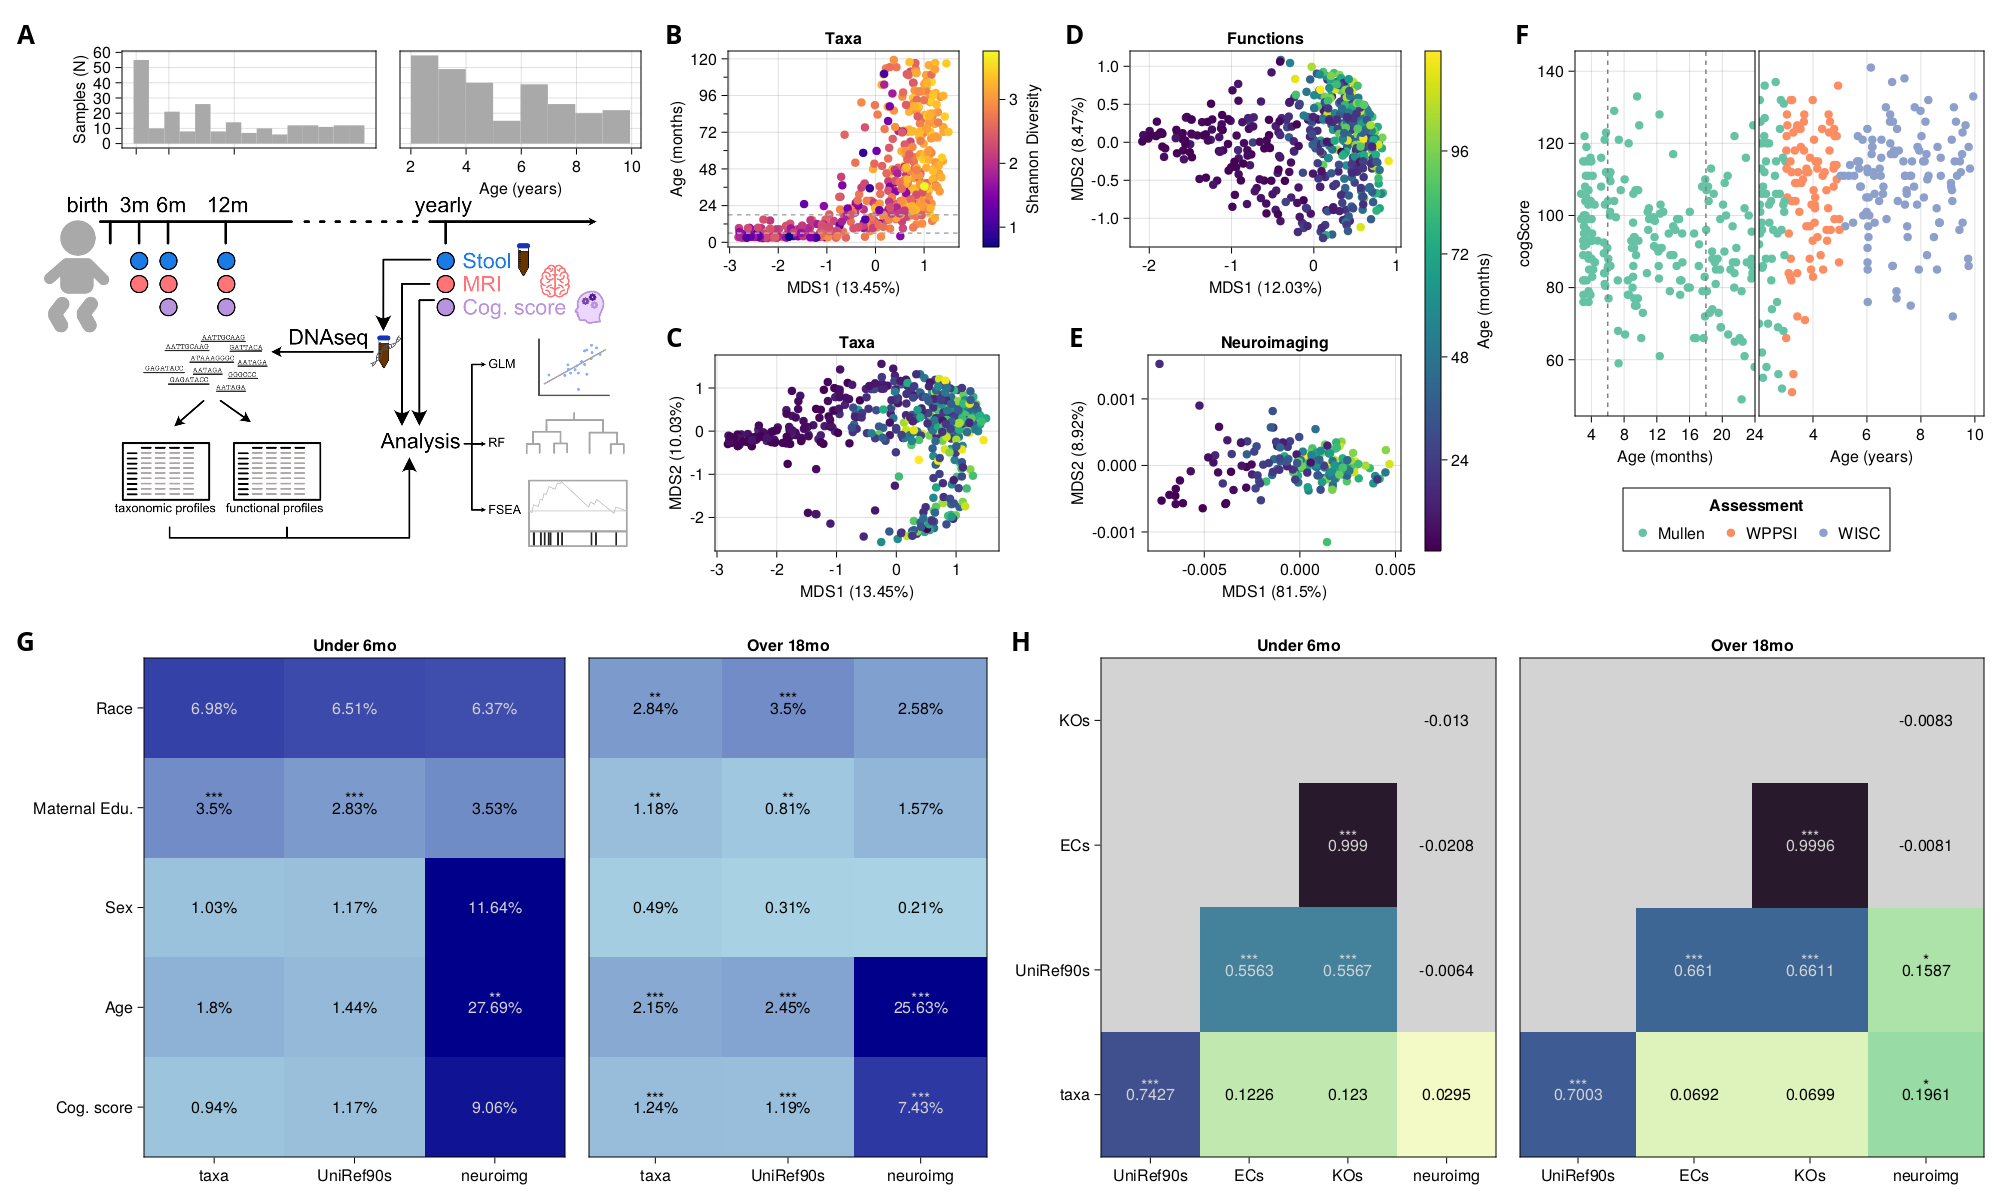
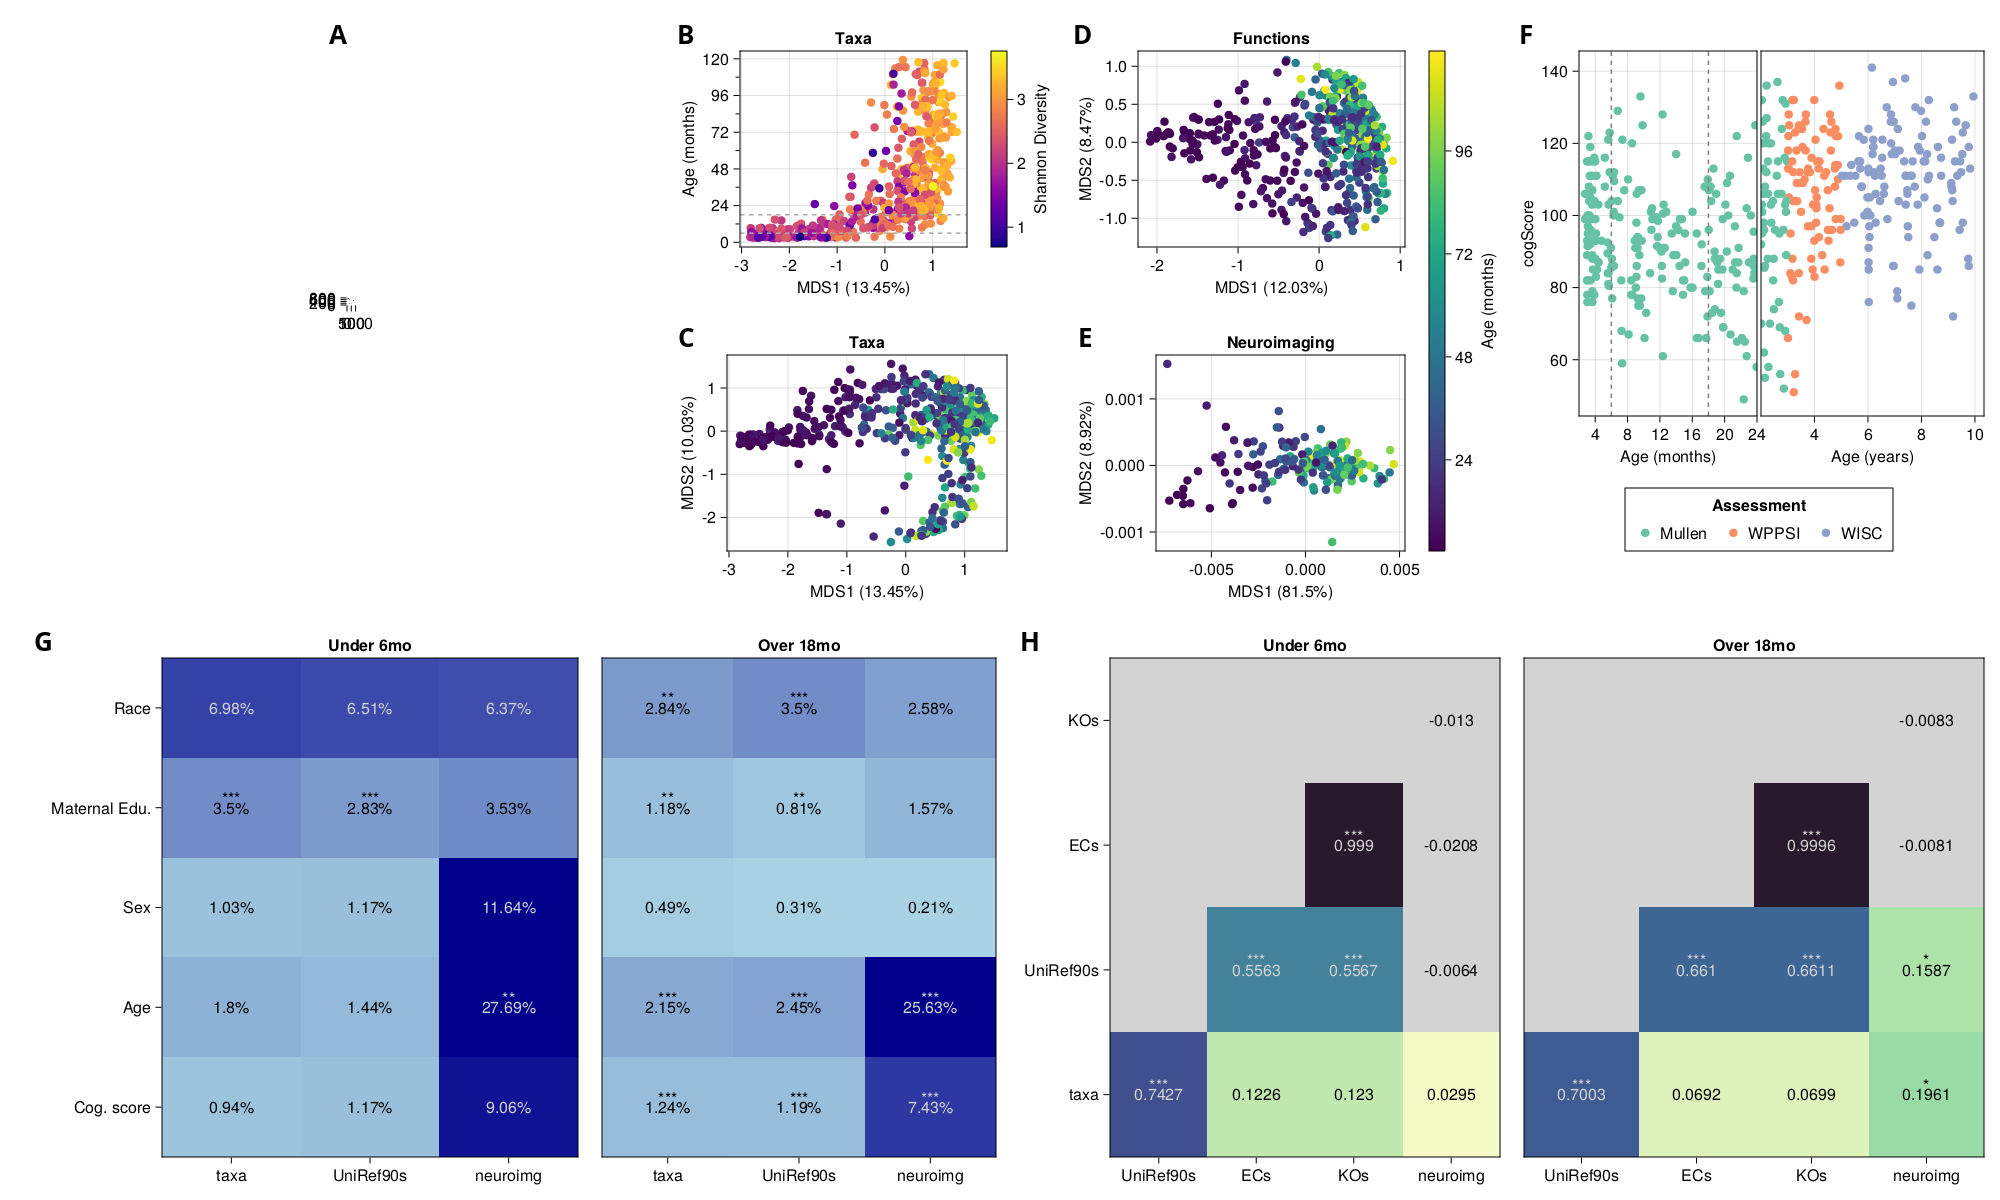
reorganize figure 1

diff --git a/manuscript/Figure1.md b/manuscript/Figure1.md
@@ -51,87 +51,32 @@ See the [Makie documentation](https://makie.juliaplots.org/stable/tutorials/layo
 
 ```julia
 figure = Figure(; resolution = (2000, 1200))
-A = GridLayout(figure[1,1])
-BCDE = GridLayout(figure[1,2])
-F = GridLayout(figure[1,3])
-GH = GridLayout(figure[2,1:3])
+AB = GridLayout(figure[1,1])
+CDEF = GridLayout(figure[1,2])
+GH = GridLayout(figure[2,1:2])
 ```
 
 
 ## Summaries
 
-### 1A - Cohort diagram and ages
+### 1A-B - Cohort diagram and ages, cogscores
 
 For now, the graphic here is a place-holder, but we'll have something like this for 1A.
 
 ```julia
-A_img = Axis(A[2,1:3]; aspect = DataAspect(), alignmode=Inside())
-A_histleft = Axis(A[1,2]; ylabel="Samples (N)")
-A_histright = Axis(A[1,3]; xlabel = "Age (years)", xticks=2:2:16, yticklabelsvisible=false, yticksvisible=false)
+
+A_img = Axis(AB[1,1]; aspect = DataAspect(), alignmode=Inside())
 hidedecorations!(A_img)
 hidespines!(A_img)
 
 image!(A_img, rotr90(load("manuscript/assets/Figure1A.jpg")))
 
-hist!(A_histleft, filter(<=(24), mdata.ageMonths); color = :darkgray)
-hist!(A_histright, filter(>(24), mdata.ageMonths) ./ 12; color = :darkgray, bins=8)
+B = GridLayout(AB[2,1])
 
-rowgap!(A, -30)
-rowsize!(A, 1, Relative(1/5))
-colsize!(A, 2, Relative(1/3))
-linkyaxes!(A_histleft, A_histright)
-
-A_histleft.xticks = ([3,6,12], ["", "", ""])
-```
-
-
-### Ordinations
-
-```julia
-spepco = fit(MDS, spedm; distances=true)
-
-B = GridLayout(BCDE[1,1])
-Ba = Axis(B[1,1]; ylabel= "Age (months)", xlabel = mdsaxis(spepco, 1), 
-                  title = "Taxa", yminorticksvisible = true, yticks=0:24:120, yminorticks = IntervalsBetween(2),
-                  alignmode = Mixed(; left=-15))
-sc1 = scatter!(Ba, Resonance.loadings(spepco, 1), get(species, :ageMonths);
-        color = divr, colormap=:plasma)
-hlines!(Ba, [6, 18]; linestyle=:dash, color=:darkgray)
-Colorbar(B[1, 2], sc1; label="Shannon Diversity", flipaxis=true)
-
-C = Axis(BCDE[2,1]; title = "Taxa", alignmode = Mixed(; left=-15))
-sc2 = plot_pcoa!(C, spepco; color=get(species, :ageMonths))
-
-
-# C = GridLayout(BCDE[2,1])
-# Ca = Axis(C[1,1]; title = "Bacteroidetes")
-# Cb = Axis(C[1,2]; title = "Firmicutes")
-# Cc = Axis(E[1,3]; title = "Actinobacteria")
-
-# plot_pcoa!(Ca, spepco; color=vec(abundances(filter(t-> taxrank(t) == :phylum, taxa)[r"Bacteroidetes", :])), colormap=:Purples)
-# plot_pcoa!(Cb, spepco; color=vec(abundances(filter(t-> taxrank(t) == :phylum, taxa)[r"Firmicutes", :])), colormap=:Purples)
-# hideydecorations!(Cb)
-# pco = plot_pcoa!(Ec, spepco; color=vec(abundances(filter(t-> taxrank(t) == :phylum, taxa)[r"Actinobacteria", :])), colormap=:Purples)
-D = Axis(BCDE[1,2]; title = "Functions", alignmode = Mixed(; left=-15))
-
-unipco = fit(MDS, unidm; distances=true)
-plot_pcoa!(D, unipco; color=get(unirefs, :ageMonths))
-
-E = Axis(BCDE[2,2]; title = "Neuroimaging", alignmode = Mixed(; left=-15))
-
-brnpco = fit(MDS, brndm; distances=true)
-plot_pcoa!(E, brnpco; color=get(brain, :ageMonths))
-
-Colorbar(BCDE[1:2, 3], sc2; label="Age (months)", flipaxis=true, ticks=0:24:120)
-```
-
-### 1F - cogscores
-
-```julia
-fax1 = Axis(F[1,1]; xlabel = "Age (months)", ylabel = "cogScore", xticks=(4:4:24), limits=((2,24), nothing), alignmode = Mixed(; left=-15))
-fax2 = Axis(F[1,2]; xlabel = "Age (years)", xticks = (4:2:12), limits=((2,nothing), nothing))
-hideydecorations!(fax2)
-linkyaxes!(fax1, fax2)
+bax1 = Axis(B[1,1]; xlabel = "Age (months)", ylabel = "cogScore", xticks=(4:4:24), limits=((2,24), nothing), alignmode = Mixed(; left=-15))
+bax2 = Axis(B[1,2]; xlabel = "Age (years)", xticks = (4:2:12), limits=((2,nothing), nothing))
+hideydecorations!(bax2)
+linkyaxes!(bax1, bax2)
 
 let
     u2y = findall(p-> !ismissing(p[2]) && p[1] <= 24, collect(zip(mdata.ageMonths, mdata.cogScore)))
@@ -144,26 +89,55 @@ let
         return cs[3] # WISC
     end
     ages = mdata.ageMonths[u2y]
-    scatter!(fax1, ages, mdata.cogScore[u2y]; color=colorage.(ages))
+    scatter!(bax1, ages, mdata.cogScore[u2y]; color=colorage.(ages))
 
     ages = mdata.ageMonths[o2y]
-    scatter!(fax2, ages ./ 12, mdata.cogScore[o2y]; color=colorage.(ages))
+    scatter!(bax2, ages ./ 12, mdata.cogScore[o2y]; color=colorage.(ages))
     
-    vlines!(fax1, [6, 18]; linestyle=:dash, color=:gray)
+    vlines!(bax1, [6, 18]; linestyle=:dash, color=:gray)
     # TODO: add colors for training/test sets in later models
 
-    Legend(F[2, 1:2], [MarkerElement(; marker=:circle, color=c) for c in cs[1:3]],
+    Legend(B[1, 3], [MarkerElement(; marker=:circle, color=c) for c in cs[1:3]],
                       ["Mullen", "WPPSI", "WISC"], "Assessment";
-                      orientation = :horizontal, tellheight=true, tellwidth=false
     )
 end
 
-colsize!(figure.layout, 1, Relative(1/3))
-colsize!(figure.layout, 3, Relative(1/4))
-colsize!(A, 1, Fixed(12))
-colsize!(A, 2, Relative(1/2))
-colgap!(F, Fixed(4))
-figure
+
+colgap!(B, Fixed(4))
+rowsize!(AB, 1, Relative(2/3))
+
+
+```
+
+
+### Ordinations
+
+```julia
+spepco = fit(MDS, spedm; distances=true)
+
+C = GridLayout(CDEF[1,1])
+Ca = Axis(C[1,1]; ylabel= "Age (months)", xlabel = mdsaxis(spepco, 1), 
+                  title = "Taxa", yminorticksvisible = true, yticks=0:24:120, yminorticks = IntervalsBetween(2),
+                  alignmode = Mixed(; left=-15))
+sc1 = scatter!(Ca, Resonance.loadings(spepco, 1), get(species, :ageMonths);
+        color = divr, colormap=:plasma)
+hlines!(Ca, [6, 18]; linestyle=:dash, color=:darkgray)
+Colorbar(C[1, 2], sc1; label="Shannon Diversity", flipaxis=true)
+
+D = Axis(CDEF[2,1]; title = "Taxa", alignmode = Mixed(; left=-15))
+sc2 = plot_pcoa!(D, spepco; color=get(species, :ageMonths))
+
+E = Axis(CDEF[1,2]; title = "Functions", alignmode = Mixed(; left=-15))
+
+unipco = fit(MDS, unidm; distances=true)
+plot_pcoa!(E, unipco; color=get(unirefs, :ageMonths))
+
+F = Axis(CDEF[2,2]; title = "Neuroimaging", alignmode = Mixed(; left=-15))
+
+brnpco = fit(MDS, brndm; distances=true)
+plot_pcoa!(F, brnpco; color=get(brain, :ageMonths))
+
+Colorbar(CDEF[1:2, 3], sc2; label="Age (months)", flipaxis=true, ticks=0:24:120)
 ```
 
 ### 1G-H: Omnibus tests
@@ -214,37 +188,37 @@ plot_mantel!(Hb, CSV.read(scratchfiles("mantel_18to120.csv"), DataFrame))
 
 ```julia
 
-Label(A[1, 1, TopLeft()], "A",
+Label(AB[1, 1, TopLeft()], "A",
         fontsize = 26,
         font = "Open Sans Bold",
         halign = :right
 )
-Label(BCDE[1, 1, TopLeft()], "B",
+Label(AB[2, 1, TopLeft()], "B",
         fontsize = 26,
         font = "Open Sans Bold",
         halign = :right
 )
-Label(BCDE[2, 1, TopLeft()], "C",
+Label(CDEF[1, 1, TopLeft()], "C",
         fontsize = 26,
         font = "Open Sans Bold",
         halign = :right
 )
-Label(BCDE[1, 2, TopLeft()], "D",
+Label(CDEF[2, 1, TopLeft()], "D",
         fontsize = 26,
         font = "Open Sans Bold",
         halign = :right
 )
-Label(BCDE[2, 2, TopLeft()], "E",
+Label(CDEF[1, 2, TopLeft()], "E",
+        fontsize = 26,
+        font = "Open Sans Bold",
+        halign = :right
+)
+Label(CDEF[2, 2, TopLeft()], "F",
         fontsize = 26,
         font = "Open Sans Bold",
         halign = :right
 )
 
-Label(F[1, 1, TopLeft()], "F",
-        fontsize = 26,
-        font = "Open Sans Bold",
-        halign = :right
-)
 Label(G[1, 1, TopLeft()], "G",
         fontsize = 26,
         font = "Open Sans Bold",
@@ -256,47 +230,82 @@ Label(H[1, 1, TopLeft()], "H",
         halign = :right
 )
 
+rowsize!(AB, 1, Relative(4/7))
+rowsize!(figure.layout, 1, Relative(2/3))
+figure
+```
+
+```julia
 save(figurefiles("Figure1.svg"), figure)
 save("manuscript/assets/Figure1.png", figure)
-figure
 ```
 
 ![](figures/Figure1.png)
 
 ## Supplement
 
+### Sample collection histograms
+
+```julia
+
+let fig = Figure()
+        histleft = Axis(fig[1,1];  xlabel = "Age (months)", ylabel="Samples (N)", xticks=(3:3:24))
+        histright = Axis(fig[1,2]; xlabel = "Age (years)", xticks=2:2:10, yticklabelsvisible=false, yticksvisible=false)
+        hist!(histleft, filter(<=(24), mdata.ageMonths); color = :darkgray)
+        hist!(histright, filter(>(24), mdata.ageMonths) ./ 12; color = :darkgray, bins=8)
+
+        linkyaxes!(histleft, histright)
+        
+        tightlimits!(histleft, Bottom())
+        tightlimits!(histright, Bottom())
+        save(figurefiles("Supp_Figure1.svg"), fig)
+        save("manuscript/assets/Supp_Figure1.png", fig)
+        fig
+end
+```
+
 ### More Taxa PCoA
 
 ```julia
-fig = Figure()
-ax = Axis(fig[1,1], title = "Bacteroidetes")
-ax2 = Axis(fig[1,2], title = "Prevotella")
-ax3 = Axis(fig[2,1], title = "Bacteroides")
-ax4 = Axis(fig[2,2], title = "Alistipes")
+fulltax = Resonance.load_raw_metaphlan()[:, samplenames(taxa)]
 
-fulltax = Resonance.get_raw_metaphlan()[:, samplenames(taxa)]
+let
+    fig = Figure()
+    ax = Axis(fig[1,1], title = "Bacteroidetes")
+    ax2 = Axis(fig[1,2], title = "Prevotella")
+    ax3 = Axis(fig[2,1], title = "Firmicutes")
+    ax4 = Axis(fig[2,2], title = "Bifidobacterium")
 
-plot_pcoa!(ax, spepco; color=vec(abundances(filter(t-> taxrank(t) == :phylum, fulltax)[r"^Bacteroidetes$", :])),
-        colormap=:Purples,
-        strokecolor=:black,
-        strokewidth=1
-)
-plot_pcoa!(ax2, spepco; color=vec(abundances(filter(t-> taxrank(t) == :genus, fulltax)[r"^Prevotella$", :])),
-        colormap=:Purples,
-        strokecolor=:black,
-        strokewidth=1
-)
-plot_pcoa!(ax3, spepco; color=vec(abundances(filter(t-> taxrank(t) == :genus, fulltax)[r"^Bacteroides$", :])),
-        colormap=:Purples,
-        strokecolor=:black,
-        strokewidth=1
-)
-plot_pcoa!(ax4, spepco; color=vec(abundances(filter(t-> taxrank(t) == :genus, fulltax)[r"^Alistipes$", :])),
-        colormap=:Purples,
-        strokecolor=:black,
-        strokewidth=1
-)
-fig
+
+    plot_pcoa!(ax, spepco; color=vec(abundances(filter(t-> taxrank(t) == :phylum, fulltax)[r"Bacteroidetes$", :])),
+            colormap=:Purples,
+            strokecolor=:black,
+            strokewidth=1,
+            colorrange=(0,100)
+    )
+    plot_pcoa!(ax2, spepco; color=vec(abundances(filter(t-> taxrank(t) == :genus, fulltax)[r"Prevotella$", :])),
+            colormap=:Purples,
+            strokecolor=:black,
+            strokewidth=1,
+            colorrange=(0,100)
+    )
+    plot_pcoa!(ax3, spepco; color=vec(abundances(filter(t-> taxrank(t) == :phylum, fulltax)[r"Firmicutes$", :])),
+            colormap=:Purples,
+            strokecolor=:black,
+            strokewidth=1,
+            colorrange=(0,100)
+    )
+    sc = plot_pcoa!(ax4, spepco; color=vec(abundances(filter(t-> taxrank(t) == :genus, fulltax)[r"Bifidobacterium$", :])),
+            colormap=:Purples,
+            strokecolor=:black,
+            strokewidth=1,
+            colorrange=(0,100)
+    )
+    Colorbar(fig[1:2, 3], sc; label="Relative abundance (%)")
+    save(figurefiles("Supp_Figure2.svg"), fig)
+    save("manuscript/assets/Supp_Figure2.png", fig)
+    fig
+end
 ```
 
 
@@ -314,5 +323,11 @@ oidx = findall(.!ismissing.(df.education) .& .!ismissing.(df.race))
 df = df[oidx, :]
 
 permanova(df, spedm[uidx[oidx], uidx[oidx]], @formula(1 ~ education + race), 1000)
+
+maximum([
+        vec(abundances(filter(t-> taxrank(t) == :phylum, fulltax)[r"Bacteroidetes$", :]));
+        vec(abundances(filter(t-> taxrank(t) == :genus, fulltax)[r"Prevotella$", :]));
+        vec(abundances(filter(t-> taxrank(t) == :phylum, fulltax)[r"Firmicutes$", :]));
+        vec(abundances(filter(t-> taxrank(t) == :genus, fulltax)[r"Bifidobacterium$", :]))])
 
 ```
